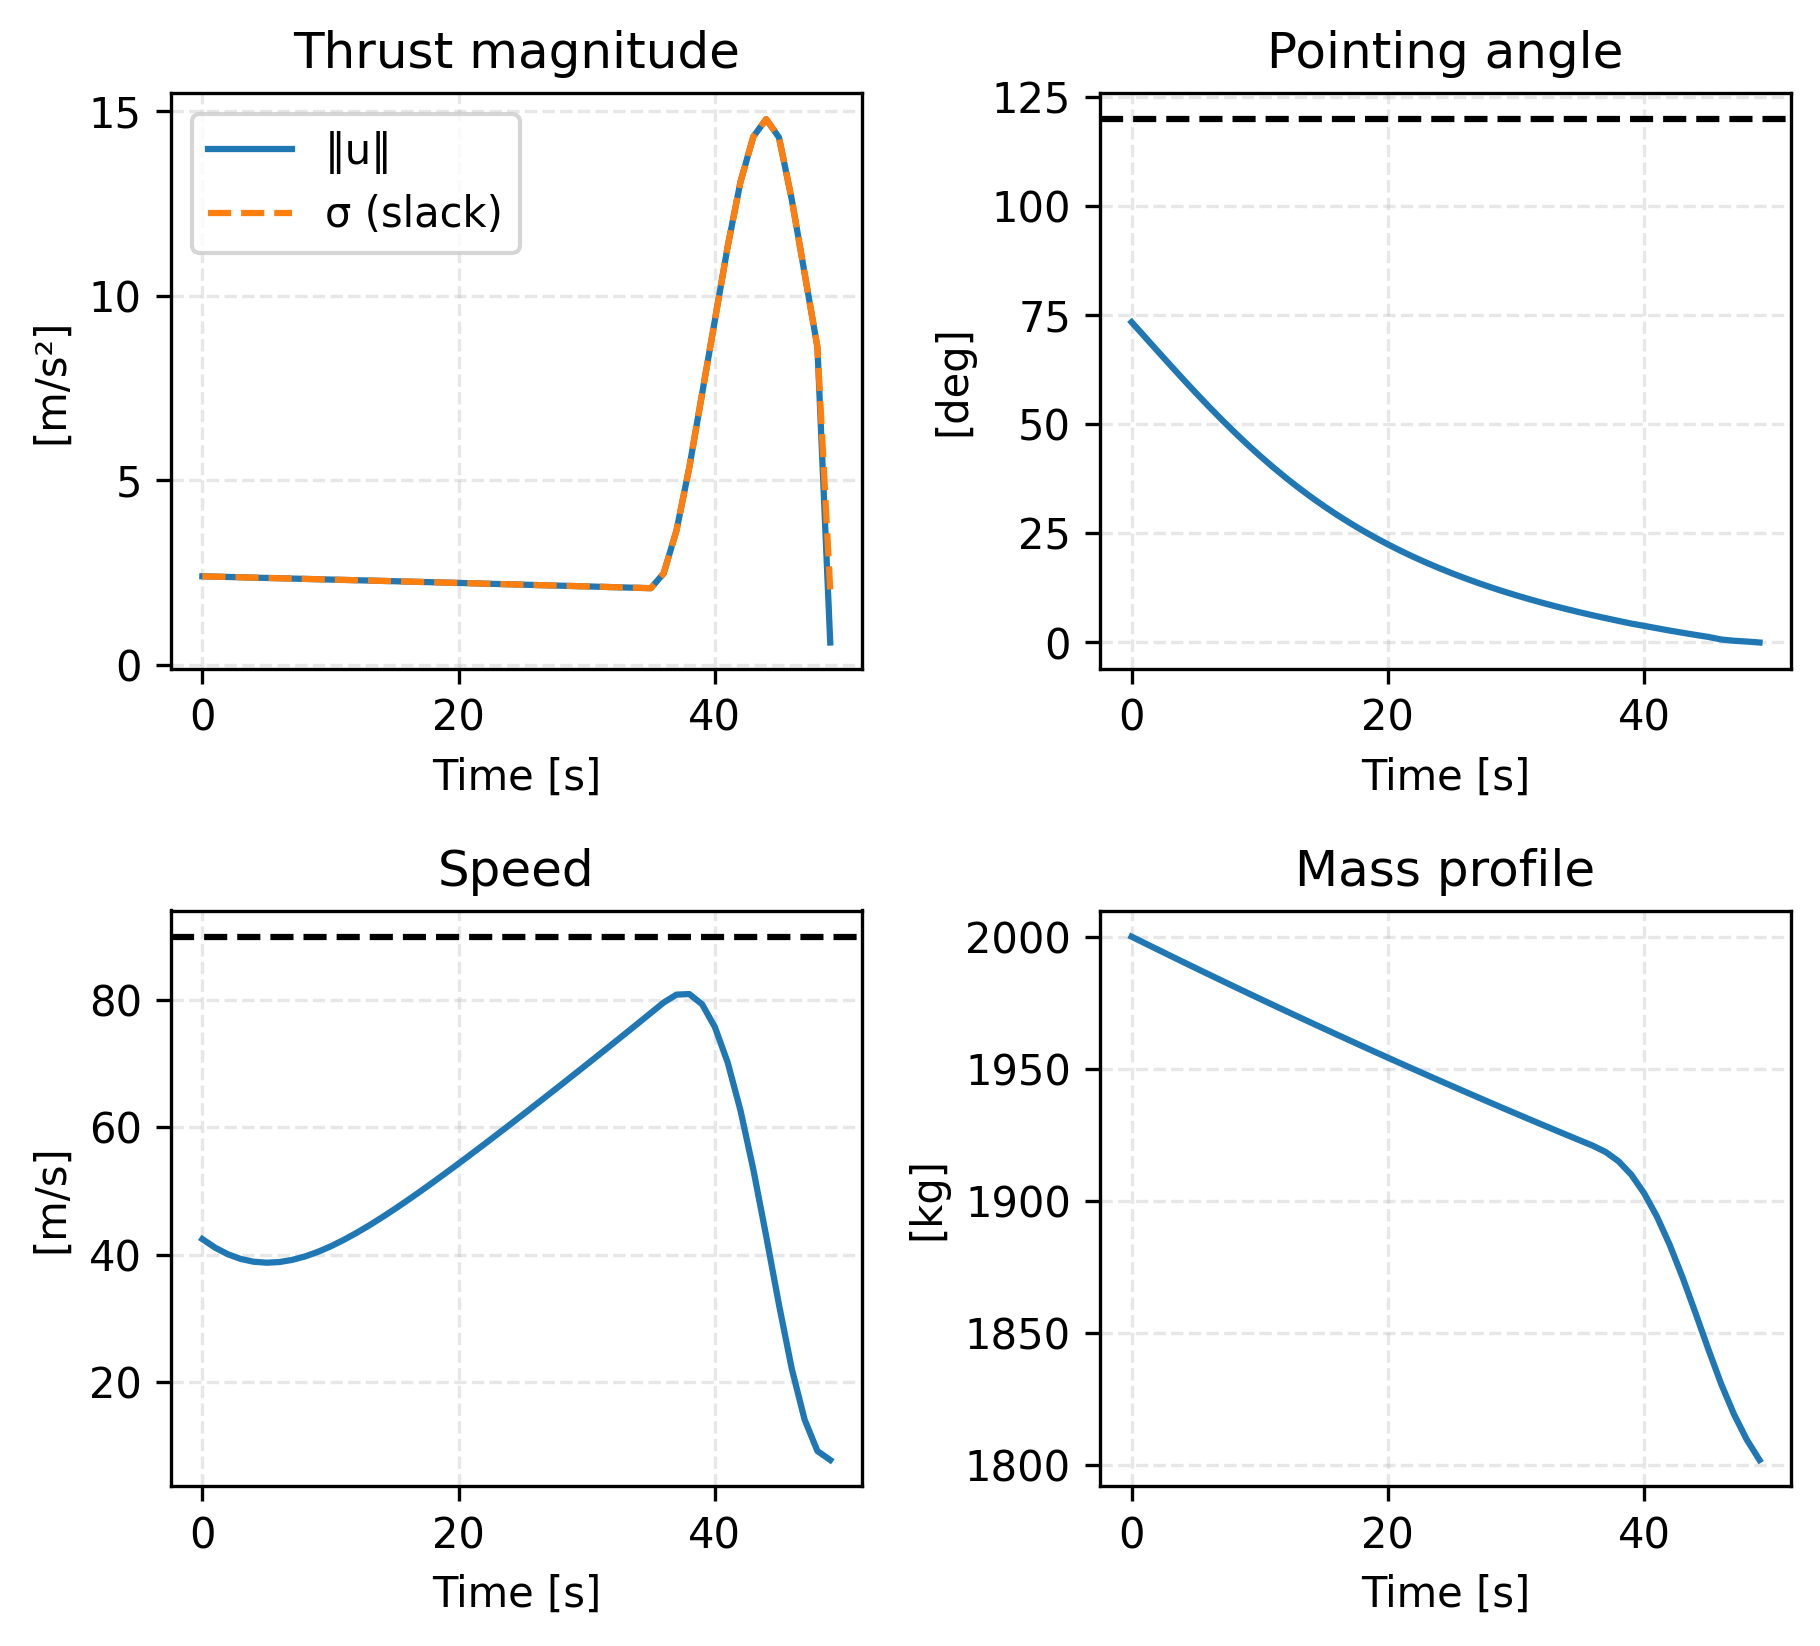
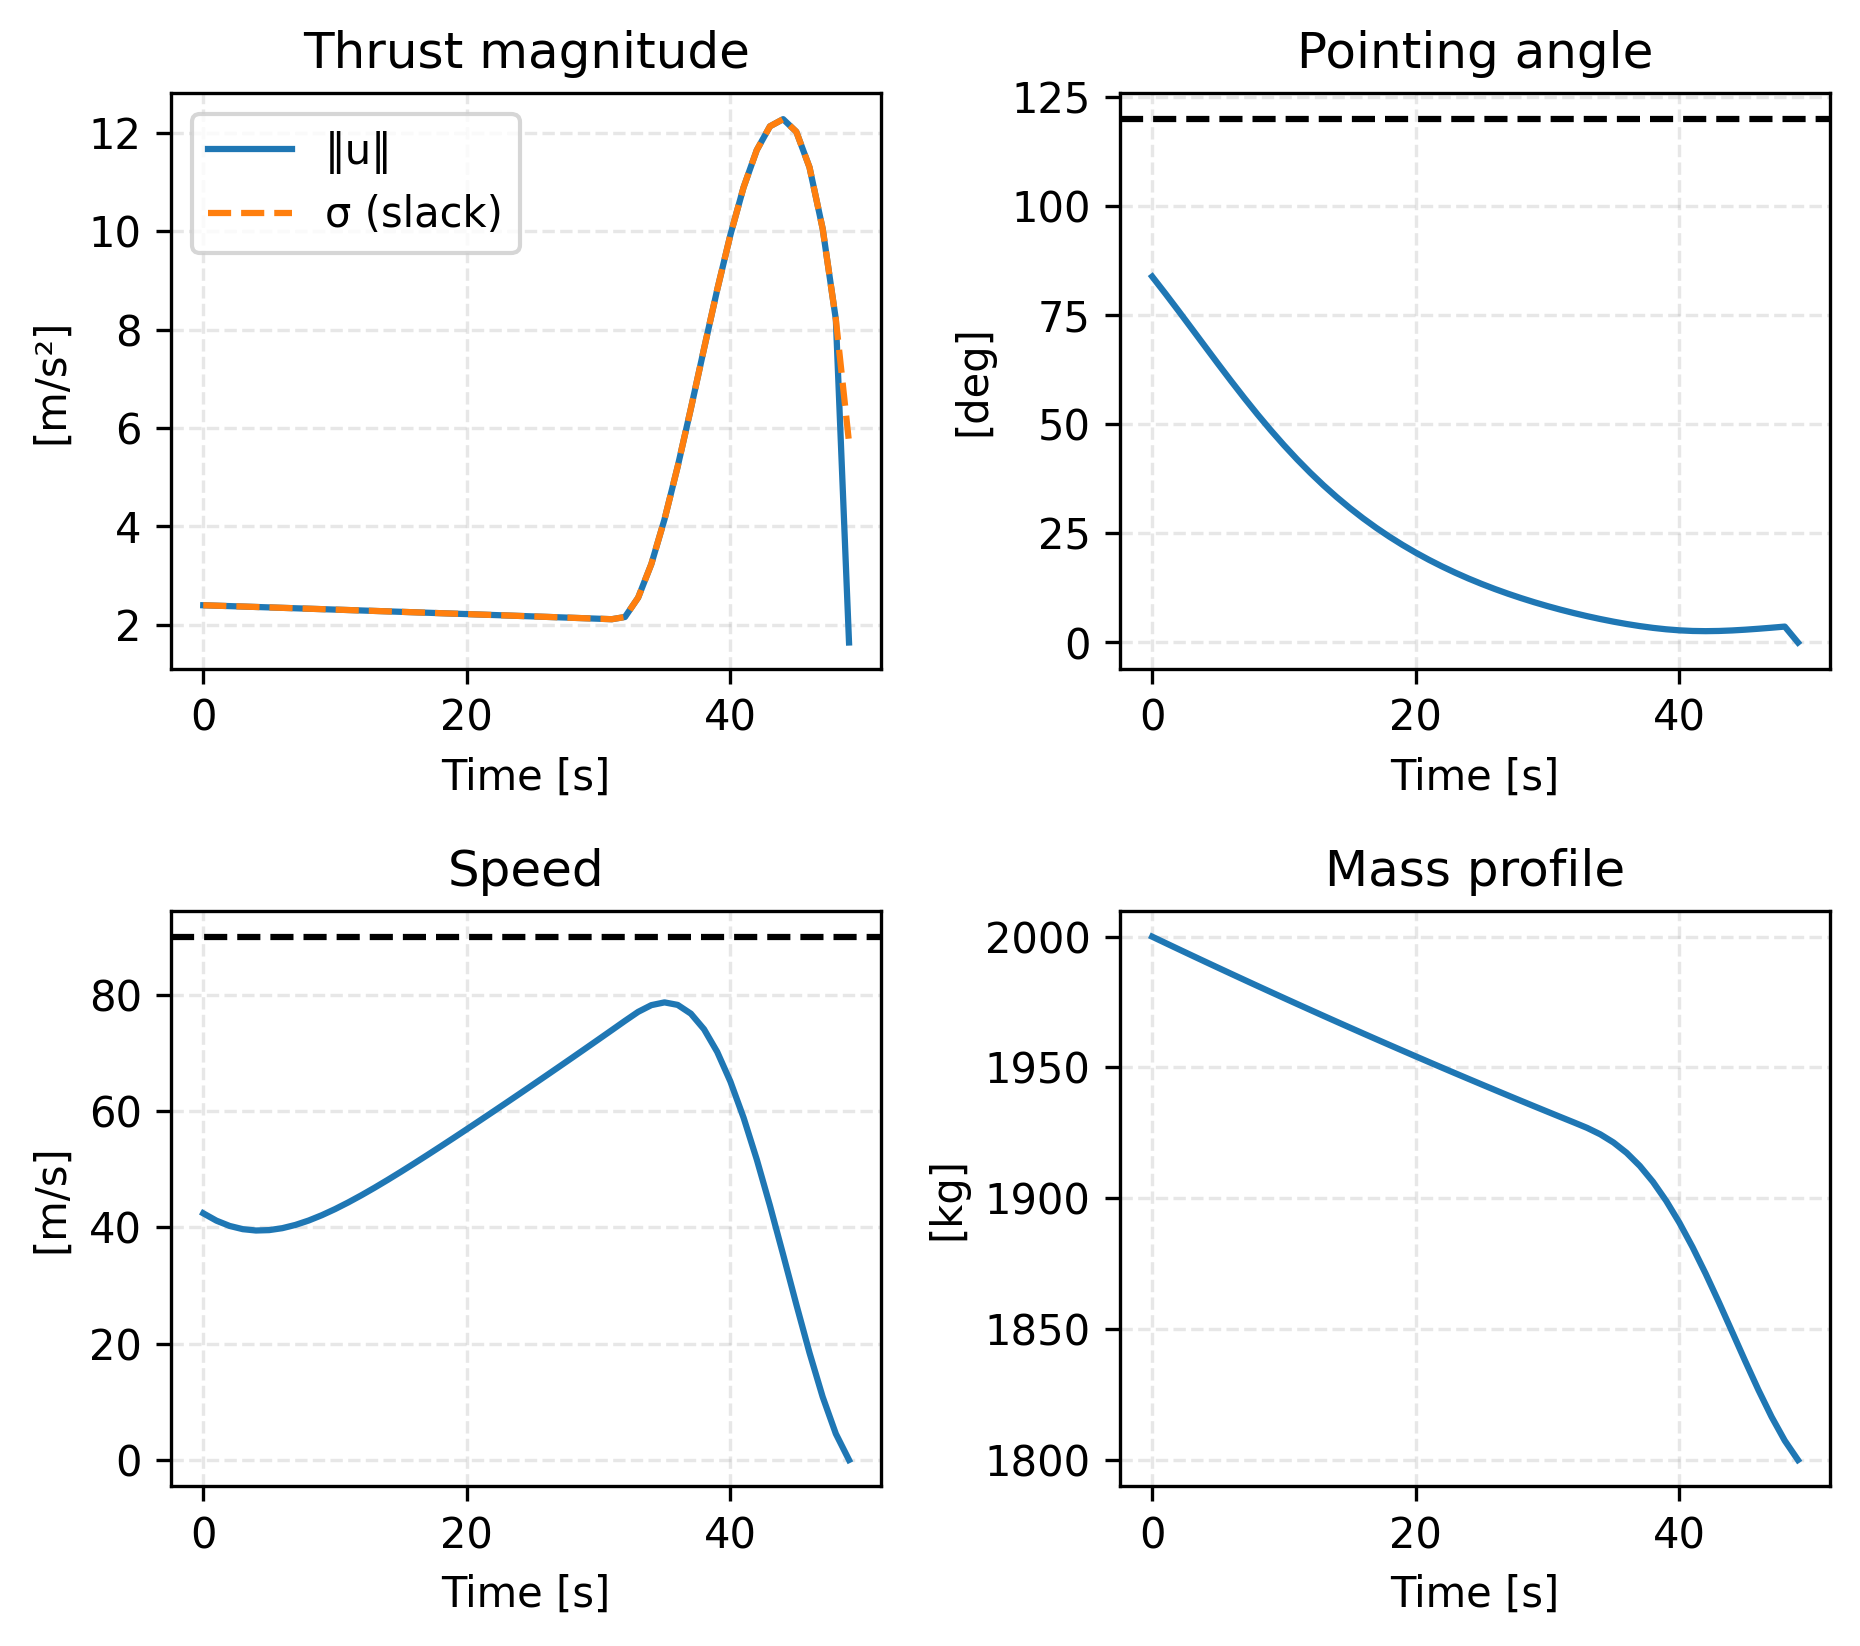
constraint for zeroing speed completely at landing

diff --git a/src/solver.py b/src/solver.py
@@ -76,7 +76,7 @@ class PoweredDescentGuidance:
         
         return constraints
 
-    def solve_minimum_error(self) -> Tuple[str, cp.Variable, cp.Variable]:
+    def solve_minimum_error(self) -> Tuple[str, cp.Variable, cp.Variable, cp.Variable, cp.Variable]:
         """Solve the relaxed minimum-landing-error guidance problem."""
         p = self.params
         
@@ -97,7 +97,7 @@ class PoweredDescentGuidance:
         # Constraints
         constraints = self._set_common_constraints(x, z, u, gamma)
         constraints.extend([
-            cp.norm(x[3:,p.N-1]) <= 2.0,  # Final velocity ≤ 2 m/s
+            cp.norm(x[3:,p.N-1]) <= p.final_velocity_max,  # Final velocity limit
             cp.norm(p.E @ x[:3,p.N-1] - p.q) <= 10.0  # Landing accuracy
         ])
         
@@ -111,7 +111,7 @@ class PoweredDescentGuidance:
         problem = cp.Problem(objective, constraints)
         problem.solve(solver=cp.ECOS, verbose=True)
         
-        return problem.status, x, u
+        return problem.status, x, u, gamma, z
 
     def solve_minimum_fuel(self, dP3: float) -> Tuple[str, cp.Variable, 
                                                      cp.Variable, cp.Variable, 
@@ -125,15 +125,19 @@ class PoweredDescentGuidance:
         u = cp.Variable((3, p.N))     # Thrust
         gamma = cp.Variable((1, p.N)) # Slack variable
         
-        # Objective: minimize fuel consumption and thrust variation
+        # Objective: minimize fuel consumption while penalizing final velocity
         objective = cp.Minimize(
-            cp.sum(gamma) * p.dt +                    # Fuel consumption
-            0.05 * cp.sum_squares(cp.diff(gamma[0,:])) # Thrust smoothness
+            cp.sum(gamma) * p.dt +                     # Fuel consumption
+            0.05 * cp.sum_squares(cp.diff(gamma[0,:])) + # Thrust smoothness
+            1.0 * cp.norm(x[3:,p.N-1])                  # Penalize final speed
         )
         
         # Constraints
         constraints = self._set_common_constraints(x, z, u, gamma)
-        constraints.append(cp.norm(p.E @ x[:3,p.N-1] - p.q) <= dP3)
+        constraints.extend([
+            cp.norm(p.E @ x[:3,p.N-1] - p.q) <= dP3,
+            cp.norm(x[3:,p.N-1]) <= p.final_velocity_max  # Limit final speed
+        ])
         
         # Solve
         problem = cp.Problem(objective, constraints)

diff --git a/main.py b/main.py
@@ -71,13 +71,13 @@ def main():
     
     # Solve minimum landing error problem
     print("\nSolving minimum landing error problem...")
-    status, x, u = solver.solve_minimum_error()
+    status, x, u, gamma_min_err, z_min_err = solver.solve_minimum_error()
     
     if status == cp.OPTIMAL or status == "optimal_inaccurate":
         print("Minimum landing error problem solved successfully!")
         print(f"Status: {status}")
         # Generate plots
-        figs = make_all_plots(x.value, u.value, None, None, params)
+        figs = make_all_plots(x.value, u.value, gamma_min_err.value, z_min_err.value, params)
         # Save each figure
         for name, fig in figs.items():
             fig.savefig(save_dir / f'min_error_{name}.png', dpi=300, bbox_inches='tight')

diff --git a/src/system_parameters.py b/src/system_parameters.py
@@ -36,6 +36,7 @@ class SystemParameters:
     glidelslope_angle: float = 30.0  # Minimum glide-slope angle [deg]
     theta_deg: float = 120.0  # Thrust angle [deg]
     velocity_max: float = 90.0  # Maximum velocity [m/s]
+    final_velocity_max: float = 2.0  # Maximum allowable final landing speed [m/s]
     
     # Planet parameters (Mars)
     omega: np.ndarray = field(default_factory=lambda: np.array([2.53e-5, 0, 6.62e-5]))  # Angular velocity [rad/s]
